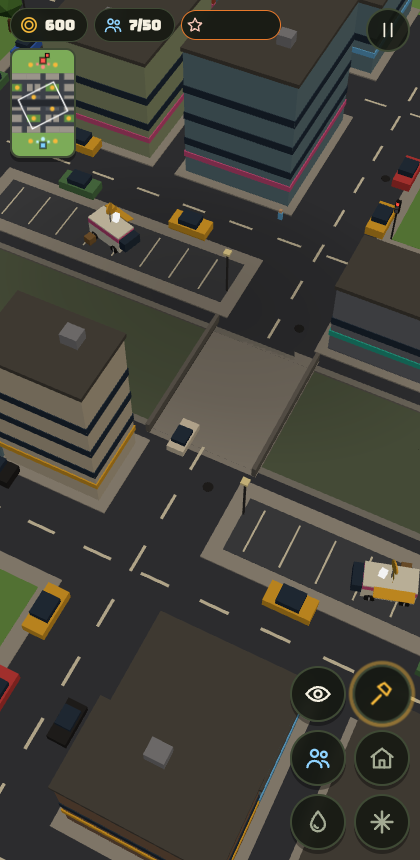
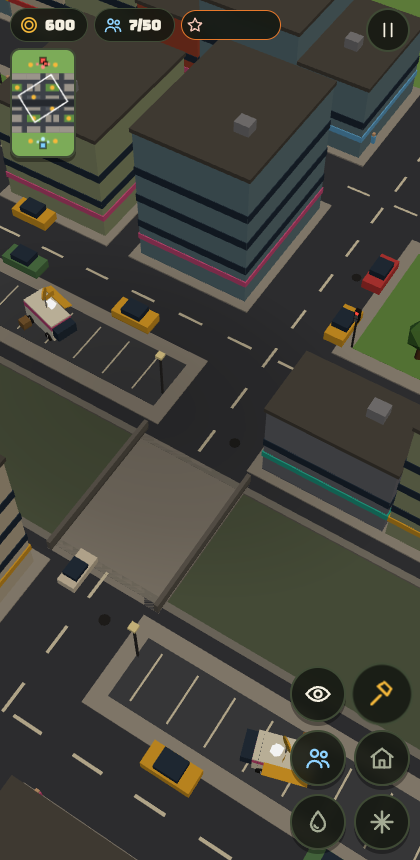
B123: HQ in danger: once your HQ is under 40% health a soft red glow pulses in from the screen edges, stronger and faster the lower it gets (no words); gone on the menu and when the HQ is healthy
Claude-Session: https://claude.ai/code/session_01FXzpagnksiDmMAqP3MTiXJ

diff --git a/src/main.js b/src/main.js
@@ -1,22 +1,22 @@
 // Entry point: wires sim + render + input + UI and runs the fixed-step loop.
-import { renderer, scene, camera, followSun, THREE, setTimeOfDay, sun } from './render/scene.js?v=122';
-import { buildWorld, updateWorld, setDusk, setRain, setLowWorld } from './render/world.js?v=122';
-import { syncRender, clearRender, bump } from './render/sync.js?v=122';
-import { handleEvents, updateFx, clearFx } from './fx/fx.js?v=122';
-import { newSim, getSim, step } from './sim/sim.js?v=122';
-import { TICK } from './config/factions.js?v=122';
-import { CAM, applyCam, resetCam, onResize } from './camera/camera.js?v=122';
-import { initInput, lockPageZoom } from './input/input.js?v=122';
-import { refreshHUD, resetHUD, updatePlaceBar, showTip } from './ui/hud.js?v=122';
-import { resetUI } from './ui/state.js?v=122';
-import { fillIcons, svg } from './ui/icons.js?v=122';
-import { noteAlerts, updateAlert, clearAlert } from './ui/alert.js?v=122';
-import { updateMinimap } from './ui/minimap.js?v=122';
-import { isMuted, setMuted } from './fx/sfx.js?v=122';
-import { loadChars } from './render/chars.js?v=122';
-import { FC } from './render/models.js?v=122';
+import { renderer, scene, camera, followSun, THREE, setTimeOfDay, sun } from './render/scene.js?v=123';
+import { buildWorld, updateWorld, setDusk, setRain, setLowWorld } from './render/world.js?v=123';
+import { syncRender, clearRender, bump } from './render/sync.js?v=123';
+import { handleEvents, updateFx, clearFx } from './fx/fx.js?v=123';
+import { newSim, getSim, step } from './sim/sim.js?v=123';
+import { TICK } from './config/factions.js?v=123';
+import { CAM, applyCam, resetCam, onResize } from './camera/camera.js?v=123';
+import { initInput, lockPageZoom } from './input/input.js?v=123';
+import { refreshHUD, resetHUD, updatePlaceBar, showTip } from './ui/hud.js?v=123';
+import { resetUI } from './ui/state.js?v=123';
+import { fillIcons, svg } from './ui/icons.js?v=123';
+import { noteAlerts, updateAlert, clearAlert } from './ui/alert.js?v=123';
+import { updateMinimap } from './ui/minimap.js?v=123';
+import { isMuted, setMuted } from './fx/sfx.js?v=123';
+import { loadChars } from './render/chars.js?v=123';
+import { FC } from './render/models.js?v=123';
 
-export const BUILD = 122; // written by `npm run bump`
+export const BUILD = 123; // written by `npm run bump`
 lockPageZoom();
 fillIcons();
 buildWorld();
@@ -34,7 +34,7 @@ window.addEventListener('orientationchange', () => setTimeout(resize, 150));
 resize();
 resetCam();
 
-const menu = document.getElementById('menu'), endEl = document.getElementById('end');
+const menu = document.getElementById('menu'), endEl = document.getElementById('end'), dangerEl = document.getElementById('danger');
 let running = false;
 let lastF = null;
 function start(f) {
@@ -185,6 +185,9 @@ function frame(now) {
     if (S.over.duel) { const w = S.squads.find((q) => q.owner === S.over.winner && q.slot === 'hero'); if (w) { cin.x = w.x; cin.z = w.z; } } // a duel swoops onto the winning hero // a hill win swoops onto the hill
     setTimeout(() => (endEl.hidden = false), 2600);
   }
+  // HQ in danger: under 40% the screen edges pulse red, faster and stronger the lower it gets.
+  { const hq = S && running && S.blds.find((b) => b.owner === 0 && b.kind === 'hq'), k = hq ? hq.hp / hq.maxHp : 1;
+    dangerEl.style.opacity = k < 0.4 ? ((0.4 - k) / 0.4 * 0.6 + 0.25) * (0.6 + 0.4 * Math.sin(time * (4 + (0.4 - k) * 15))) : 0; }
   hudT -= dt;
   if (hudT <= 0) { hudT = 0.15; refreshHUD(); }
   cinema(dt);

diff --git a/index.html b/index.html
@@ -6,7 +6,7 @@
 <meta name="viewport" content="width=device-width,initial-scale=1,maximum-scale=1,user-scalable=no,viewport-fit=cover">
 <link rel="preconnect" href="https://fonts.googleapis.com">
 <link rel="stylesheet" href="https://fonts.googleapis.com/css2?family=Bungee&family=Lilita+One&display=swap">
-<link rel="stylesheet" href="./src/ui/style.css?v=122">
+<link rel="stylesheet" href="./src/ui/style.css?v=123">
 <!-- No build step needed: GitHub Pages serves this file straight from main, so bare 'three' imports resolve here. -->
 <script type="importmap">
 { "imports": { "three": "./vendor/three/three.module.min.js", "three/examples/jsm/": "./vendor/three/jsm/" } }
@@ -20,6 +20,7 @@
   <div class="chip meter"><i id="meterFill"></i><span class="ic" data-i="star"></span></div>
   <div class="chip hillc" id="hillChip" style="display:none"><span class="ic" data-i="flag"></span><div class="hb"><i id="hillMe"></i><i id="hillThem"></i></div></div>
 </div>
+<div id="danger"></div>
 <canvas id="mini"></canvas>
 <button type="button" id="pauseBtn" aria-label="Pause"><span class="ic" data-i="pause"></span></button>
 <div id="pauseDim" hidden><span class="ic" data-i="play"></span><button type="button" id="quitBtn" class="again" aria-label="Quit to menu"><span class="ic" data-i="home"></span></button><button type="button" id="speedBtn" class="again" aria-label="Game speed"></button></div>
@@ -35,7 +36,7 @@
 <div id="box"></div>
 <div id="holdRing" hidden></div>
 <div id="menu" class="overlay">
-  <h1>Culture <em>Wars</em><span>GREYBOX 04 · <b id="build">B122</b></span></h1>
+  <h1>Culture <em>Wars</em><span>GREYBOX 04 · <b id="build">B123</b></span></h1>
   <div class="diff" id="diff"><button type="button" data-d="0" aria-label="Easy"><span class="ic" data-i="star"></span></button><button type="button" data-d="1" class="on" aria-label="Normal"><span class="ic" data-i="star"></span><span class="ic" data-i="star"></span></button><button type="button" data-d="2" aria-label="Hard"><span class="ic" data-i="star"></span><span class="ic" data-i="star"></span><span class="ic" data-i="star"></span></button><i class="sep"></i><button type="button" class="mode" data-m="vs" aria-label="Versus"><span class="ic" data-i="home"></span></button><button type="button" class="mode" data-m="hill" aria-label="King of the Hill"><span class="ic" data-i="flag"></span></button><button type="button" class="mode" data-m="cap" aria-label="Capture and Hold"><span class="ic" data-i="hold"></span></button><button type="button" class="mode" data-m="race" aria-label="Resource Race"><span class="ic" data-i="coin"></span></button><button type="button" class="mode" data-m="hero" aria-label="Hero vs Hero"><span class="ic" data-i="hero"></span></button></div>
   <div class="picks">
     <button class="pick" data-f="bw" type="button"><span class="ic" data-i="truck"></span>Backwoods<small>FEWER · TOUGHER</small></button>
@@ -65,6 +66,6 @@
   setTimeout(function () { if (!window.__cwBooted) show('Game script did not start (old cached file? wait a few minutes and reload)'); }, 8000);
 })();
 </script>
-<script type="module" src="./src/main.js?v=122" onerror="__cwLoadFail()"></script>
+<script type="module" src="./src/main.js?v=123" onerror="__cwLoadFail()"></script>
 </body>
 </html>

diff --git a/src/render/sync.js b/src/render/sync.js
@@ -1,19 +1,19 @@
 // Mirrors sim state into the scene every frame. Reads the sim, never writes to it.
-import { THREE, scene, camera, mat, box, basic, ringMesh, disposeObj, casts } from './scene.js?v=122';
-import { makeMember, bldMesh, nodeMesh, formation, FC } from './models.js?v=122';
-import { makeChar, charsReady, play, CAST } from './chars.js?v=122';
-import { emit } from '../fx/particles.js?v=122';
-import { bark } from '../fx/sfx.js?v=122';
-import { TICK } from '../config/factions.js?v=122';
-import { walkH } from '../map/layout.js?v=122';
-import { NODE_AMOUNT, BLD, BUILD_RADIUS, FACTIONS } from '../config/factions.js?v=122';
-import { CAM } from '../camera/camera.js?v=122';
+import { THREE, scene, camera, mat, box, basic, ringMesh, disposeObj, casts } from './scene.js?v=123';
+import { makeMember, bldMesh, nodeMesh, formation, FC } from './models.js?v=123';
+import { makeChar, charsReady, play, CAST } from './chars.js?v=123';
+import { emit } from '../fx/particles.js?v=123';
+import { bark } from '../fx/sfx.js?v=123';
+import { TICK } from '../config/factions.js?v=123';
+import { walkH } from '../map/layout.js?v=123';
+import { NODE_AMOUNT, BLD, BUILD_RADIUS, FACTIONS } from '../config/factions.js?v=123';
+import { CAM } from '../camera/camera.js?v=123';
 const fac0 = (S) => FACTIONS[S.players[0].f];
-import { Q, pl, getSim } from '../sim/sim.js?v=122';
-import { UI } from '../ui/state.js?v=122';
-import { fxConfetti, fxDeath } from '../fx/fx.js?v=122';
+import { Q, pl, getSim } from '../sim/sim.js?v=123';
+import { UI } from '../ui/state.js?v=123';
+import { fxConfetti, fxDeath } from '../fx/fx.js?v=123';
 import { mergeGeometries } from 'three/examples/jsm/utils/BufferGeometryUtils.js';
-import { lerpAngle } from '../util/math.js?v=122';
+import { lerpAngle } from '../util/math.js?v=123';
 // Selection rings take your faction colour, washed toward white so they still pop on any ground.
 const selCol = () => { const S = getSim(), f = S && S.players[0].f; return f ? new THREE.Color(FC[f].main).lerp(new THREE.Color(0xffffff), 0.35).getHex() : 0xffffff; };
 

diff --git a/src/ui/hud.js b/src/ui/hud.js
@@ -1,15 +1,15 @@
 // HUD: resource chips, context panel, command buttons, floating placement confirm, long-press labels.
 // Buttons are described as data ("specs") each refresh; the DOM is rebuilt only when the set of buttons changes.
 // Every action goes through sim.command(); Q.* is used only for instant feedback (shake, dim).
-import { svg } from './icons.js?v=122';
-import { UI, select, selSquads } from './state.js?v=122';
-import { getSim, pl, fac, Q, command, count, cpUsed, cpCap, hqOf } from '../sim/sim.js?v=122';
-import { BLD, BUILD_KINDS, TRAIN_SLOTS, UPG, REQ } from '../config/factions.js?v=122';
-import { CAM, toggleView, focus } from '../camera/camera.js?v=122';
-import { camera } from '../render/scene.js?v=122';
-import { walkH } from '../map/layout.js?v=122';
-import { THREE } from '../render/scene.js?v=122';
-import { showHint } from './hint.js?v=122';
+import { svg } from './icons.js?v=123';
+import { UI, select, selSquads } from './state.js?v=123';
+import { getSim, pl, fac, Q, command, count, cpUsed, cpCap, hqOf } from '../sim/sim.js?v=123';
+import { BLD, BUILD_KINDS, TRAIN_SLOTS, UPG, REQ } from '../config/factions.js?v=123';
+import { CAM, toggleView, focus } from '../camera/camera.js?v=123';
+import { camera } from '../render/scene.js?v=123';
+import { walkH } from '../map/layout.js?v=123';
+import { THREE } from '../render/scene.js?v=123';
+import { showHint } from './hint.js?v=123';
 
 const panelEl = document.getElementById('panel'), cmdEl = document.getElementById('cmd'), queueEl = document.getElementById('queue');
 const placeBar = document.getElementById('placeBar'), tipEl = document.getElementById('tip');

diff --git a/src/input/input.js b/src/input/input.js
@@ -4,13 +4,13 @@
 //   hold then drag  = box select
 //   2 fingers       = pinch zoom + twist to rotate + drag to pan
 //   mouse: right-drag = box select, wheel = zoom; keys WASD/arrows pan, Q/E rotate, V ghost cam, Esc cancel
-import { THREE, camera, canvas } from '../render/scene.js?v=122';
-import { walkH } from '../map/layout.js?v=122';
-import { getSim, command } from '../sim/sim.js?v=122';
-import { UI, select, selSquads } from '../ui/state.js?v=122';
-import { CAM, panBy, clampCam, toggleView, pxPerUnit } from '../camera/camera.js?v=122';
-import { fxMarker } from '../fx/fx.js?v=122';
-import { ack } from '../render/sync.js?v=122';
+import { THREE, camera, canvas } from '../render/scene.js?v=123';
+import { walkH } from '../map/layout.js?v=123';
+import { getSim, command } from '../sim/sim.js?v=123';
+import { UI, select, selSquads } from '../ui/state.js?v=123';
+import { CAM, panBy, clampCam, toggleView, pxPerUnit } from '../camera/camera.js?v=123';
+import { fxMarker } from '../fx/fx.js?v=123';
+import { ack } from '../render/sync.js?v=123';
 
 const ray = new THREE.Raycaster(), ndc = new THREE.Vector2(), tmp = new THREE.Vector3();
 export function groundAt(cx, cy) {

diff --git a/src/fx/fx.js b/src/fx/fx.js
@@ -1,12 +1,12 @@
 // Visual effects. Reads sim events, never changes the sim.
 // To add an effect for a new mechanic: emit S.events.push({k:'myThing', ...}) in the sim,
 // then add a case in handleEvents below.
-import { THREE, scene, mat, cyl, basic, disposeObj } from '../render/scene.js?v=122';
-import { walkH } from '../map/layout.js?v=122';
-import { sfx } from './sfx.js?v=122';
-import { shake, CAM } from '../camera/camera.js?v=122';
-import { FC } from '../render/models.js?v=122';
-import { emit, updateParticles, clearParticles, burstHit, burstShot, burstCoins } from './particles.js?v=122';
+import { THREE, scene, mat, cyl, basic, disposeObj } from '../render/scene.js?v=123';
+import { walkH } from '../map/layout.js?v=123';
+import { sfx } from './sfx.js?v=123';
+import { shake, CAM } from '../camera/camera.js?v=123';
+import { FC } from '../render/models.js?v=123';
+import { emit, updateParticles, clearParticles, burstHit, burstShot, burstCoins } from './particles.js?v=123';
 
 const fx = [];
 function addFx(obj, life, upd) { scene.add(obj); fx.push({ obj, life, t: 0, upd }); }

diff --git a/src/render/world.js b/src/render/world.js
@@ -1,10 +1,10 @@
 // Static city: streets, sidewalks, buildings, parks, freeway trench + overpasses, ambient traffic.
 // Built once from map/layout.js. Mostly InstancedMesh so it stays cheap on phones.
-import { THREE, scene, mat, box, setOvercast } from './scene.js?v=122';
-import { CAM } from '../camera/camera.js?v=122';
-import { MAP, BLOCKS, TREES, PARKED, TRENCH, OVERPASSES, AVENUES, CROSS_STREETS, HOME_Z, inRect, walkH } from '../map/layout.js?v=122';
-import { hash } from '../util/math.js?v=122';
-import { emit } from '../fx/particles.js?v=122';
+import { THREE, scene, mat, box, setOvercast } from './scene.js?v=123';
+import { CAM } from '../camera/camera.js?v=123';
+import { MAP, BLOCKS, TREES, PARKED, TRENCH, OVERPASSES, AVENUES, CROSS_STREETS, HOME_Z, inRect, walkH } from '../map/layout.js?v=123';
+import { hash } from '../util/math.js?v=123';
+import { emit } from '../fx/particles.js?v=123';
 
 const COL = {
   asphalt: 0x3d4148, sidewalk: 0xa8a49a, grass: 0x6f9e50, lawn: 0x7cab58, lot: 0x4b4f56, stripe: 0xe8e2c8,

diff --git a/src/sim/sim.js b/src/sim/sim.js
@@ -9,11 +9,11 @@
 import {
   TICK, START_CASH, BUILD_RADIUS, MAX_WORKERS, NODE_AMOUNT, GATHER_T, CARRY, BASE_INCOME, DEPOT_INCOME,
   COUNTER, REQ, UPG, UPT, BLD, FACTIONS,
-} from '../config/factions.js?v=122';
-import { MAP, NODES, BASES, walkH } from '../map/layout.js?v=122';
-import { markCircle, isBlocked, lineClear, nearestFree, findPath, blocked, cellOf, cellCenter, inGrid } from '../map/grid.js?v=122';
-import { mulberry32 } from '../util/math.js?v=122';
-import { aiStep } from './ai.js?v=122';
+} from '../config/factions.js?v=123';
+import { MAP, NODES, BASES, walkH } from '../map/layout.js?v=123';
+import { markCircle, isBlocked, lineClear, nearestFree, findPath, blocked, cellOf, cellCenter, inGrid } from '../map/grid.js?v=123';
+import { mulberry32 } from '../util/math.js?v=123';
+import { aiStep } from './ai.js?v=123';
 
 let S = null;
 export const getSim = () => S;

diff --git a/src/ui/minimap.js b/src/ui/minimap.js
@@ -1,8 +1,8 @@
 // Minimap, top-left under the resource chips. Fixed orientation: your base at the bottom (+z), enemy at the top.
 // Tap or drag on it to move the camera there. Static city is drawn once; units/buildings redraw ~10x a second.
-import { MAP, BLOCKS, TRENCH } from '../map/layout.js?v=122';
-import { CAM, focus } from '../camera/camera.js?v=122';
-import { getSim } from '../sim/sim.js?v=122';
+import { MAP, BLOCKS, TRENCH } from '../map/layout.js?v=123';
+import { CAM, focus } from '../camera/camera.js?v=123';
+import { getSim } from '../sim/sim.js?v=123';
 
 const cv = document.getElementById('mini'), ctx = cv.getContext('2d');
 const bg = document.createElement('canvas'), bctx = bg.getContext('2d');

diff --git a/src/ui/alert.js b/src/ui/alert.js
@@ -1,9 +1,9 @@
 // Under-attack alert: when something of yours is hit somewhere the camera is not looking, a red arrow pulses on
 // the screen edge pointing at it. Tap the arrow to fly there. Newest fight wins; it fades 5 s after the last hit.
-import { THREE, camera } from '../render/scene.js?v=122';
-import { walkH } from '../map/layout.js?v=122';
-import { focus } from '../camera/camera.js?v=122';
-import { svg } from './icons.js?v=122';
+import { THREE, camera } from '../render/scene.js?v=123';
+import { walkH } from '../map/layout.js?v=123';
+import { focus } from '../camera/camera.js?v=123';
+import { svg } from './icons.js?v=123';
 
 const el = document.getElementById('alert');
 el.innerHTML = svg('up');

diff --git a/src/ui/style.css b/src/ui/style.css
@@ -190,3 +190,5 @@ body.show-mute #gfxBtn { display: grid; }
 .btn.nudge { animation: nudge 1.1s ease-in-out infinite; }
 @keyframes nudge { 0%, 100% { transform: scale(1); box-shadow: 0 0 0 0 rgba(245, 184, 58, .7); } 50% { transform: scale(1.12); box-shadow: 0 0 0 10px rgba(245, 184, 58, 0); } }
 #speedBtn { position: absolute; left: calc(50% + 70px); bottom: calc(env(safe-area-inset-bottom, 0px) + 40px); font: 26px/1 var(--display); color: var(--gold); }
+/* HQ in danger: a soft red glow pulses in from the screen edges (opacity driven from main.js). */
+#danger { position: fixed; inset: 0; z-index: 4; pointer-events: none; opacity: 0; box-shadow: inset 0 0 90px 30px rgba(255, 50, 40, .55); }

diff --git a/src/render/chars.js b/src/render/chars.js
@@ -2,7 +2,7 @@
 // clips drives all of them: the clips come from three DONOR files and are retargeted onto each rig by bone name.
 // Nothing here is required: until the files load (or if they fail, e.g. the single-file artifact build) the
 // box placeholders in models.js are used, and sync.js swaps squads over once this reports ready.
-import { THREE } from './scene.js?v=122';
+import { THREE } from './scene.js?v=123';
 import { GLTFLoader } from 'three/examples/jsm/loaders/GLTFLoader.js';
 import { DRACOLoader } from 'three/examples/jsm/loaders/DRACOLoader.js';
 import { clone as skClone } from 'three/examples/jsm/utils/SkeletonUtils.js';
